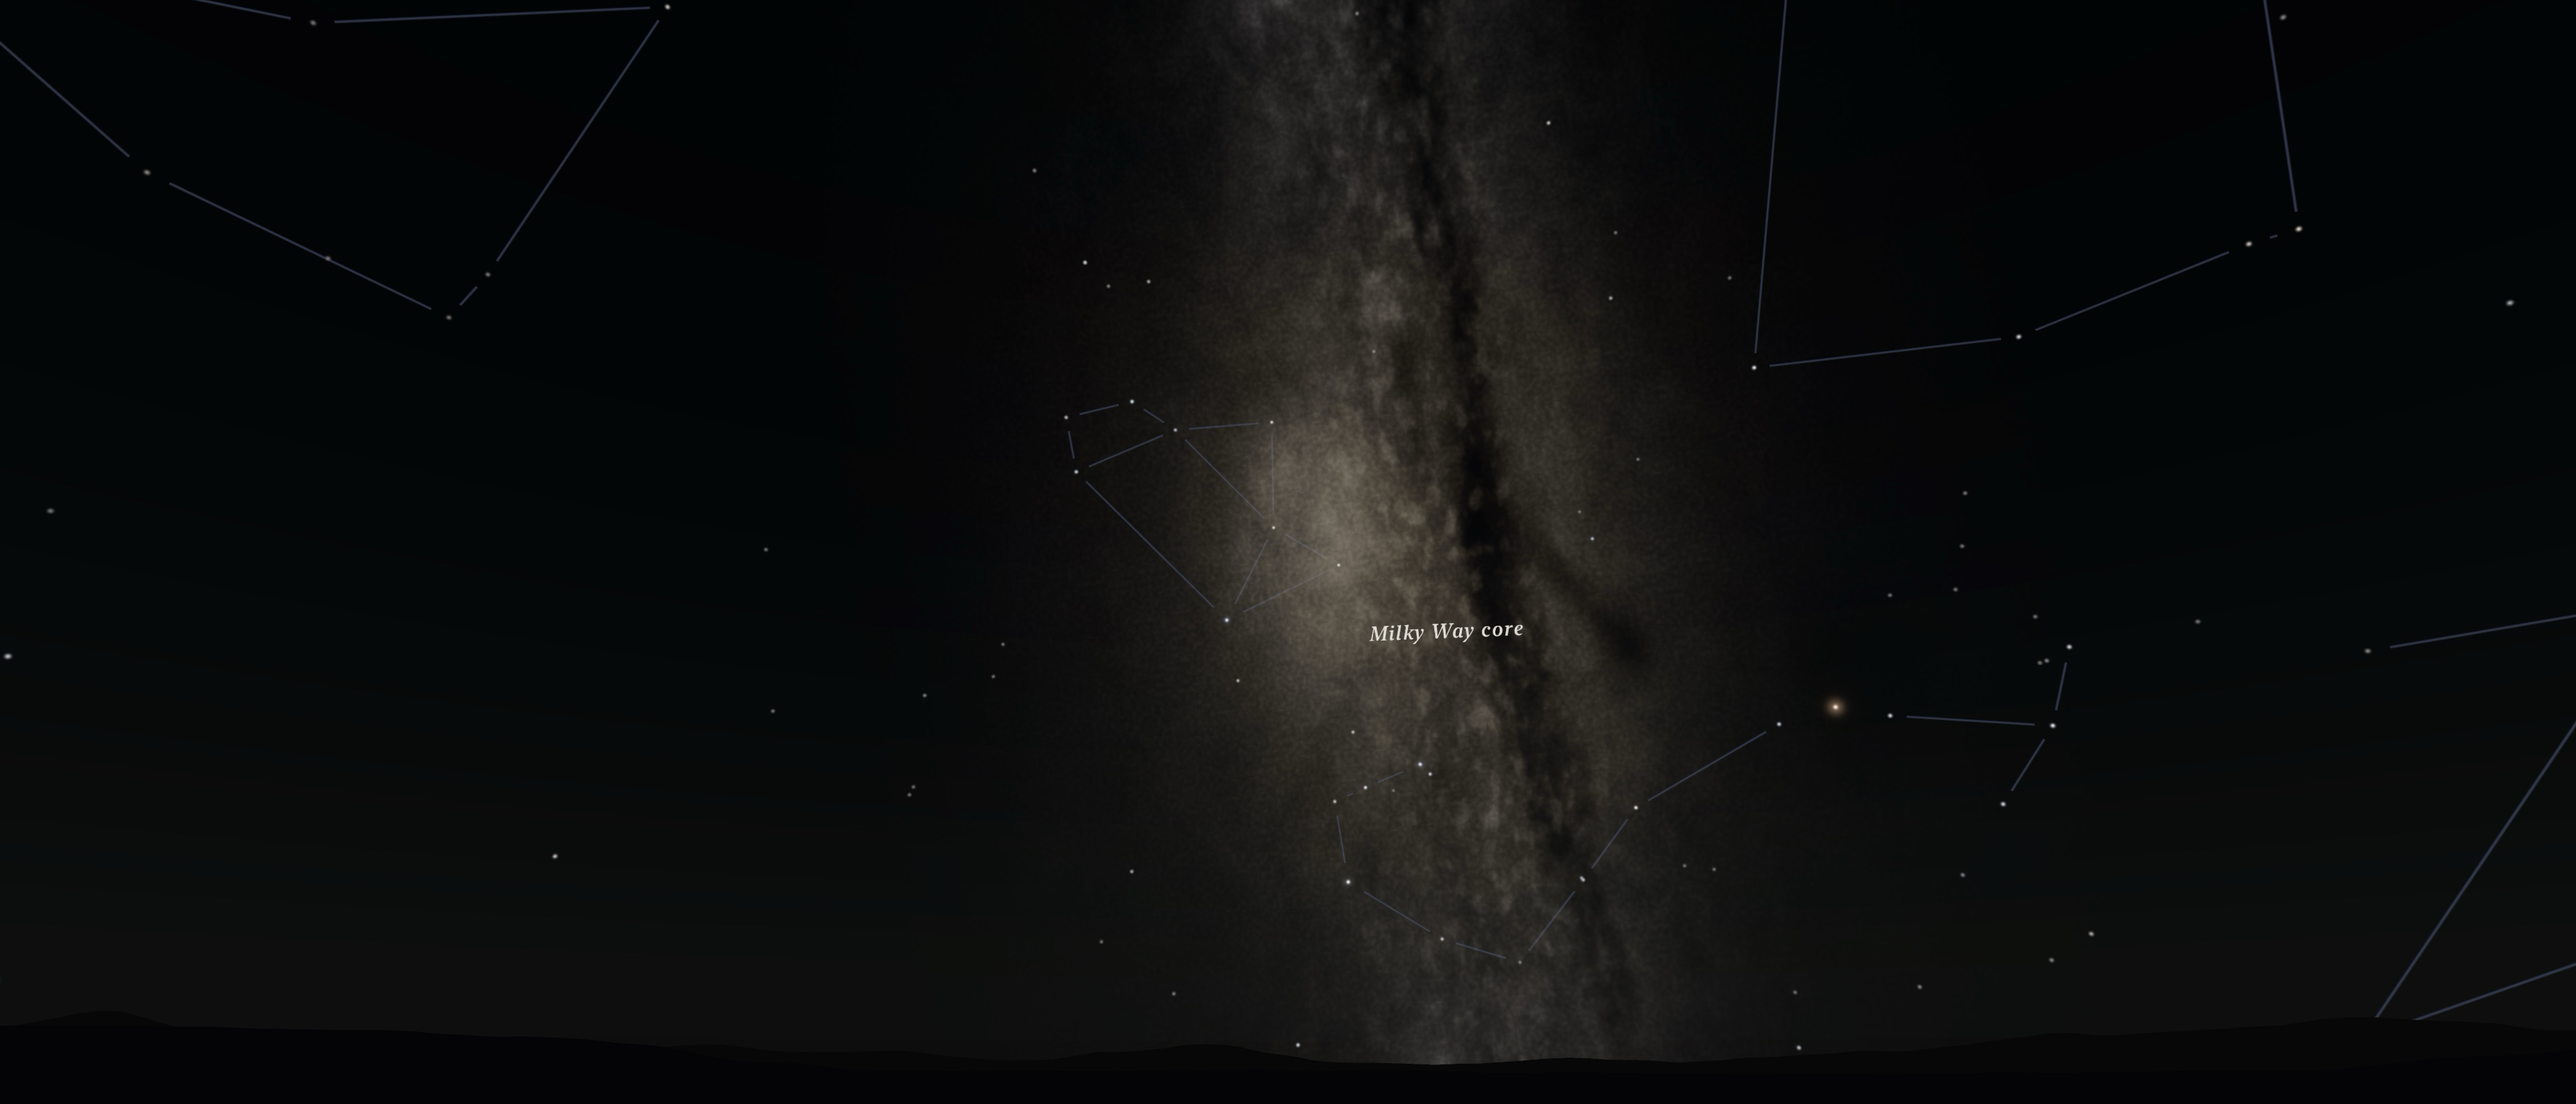
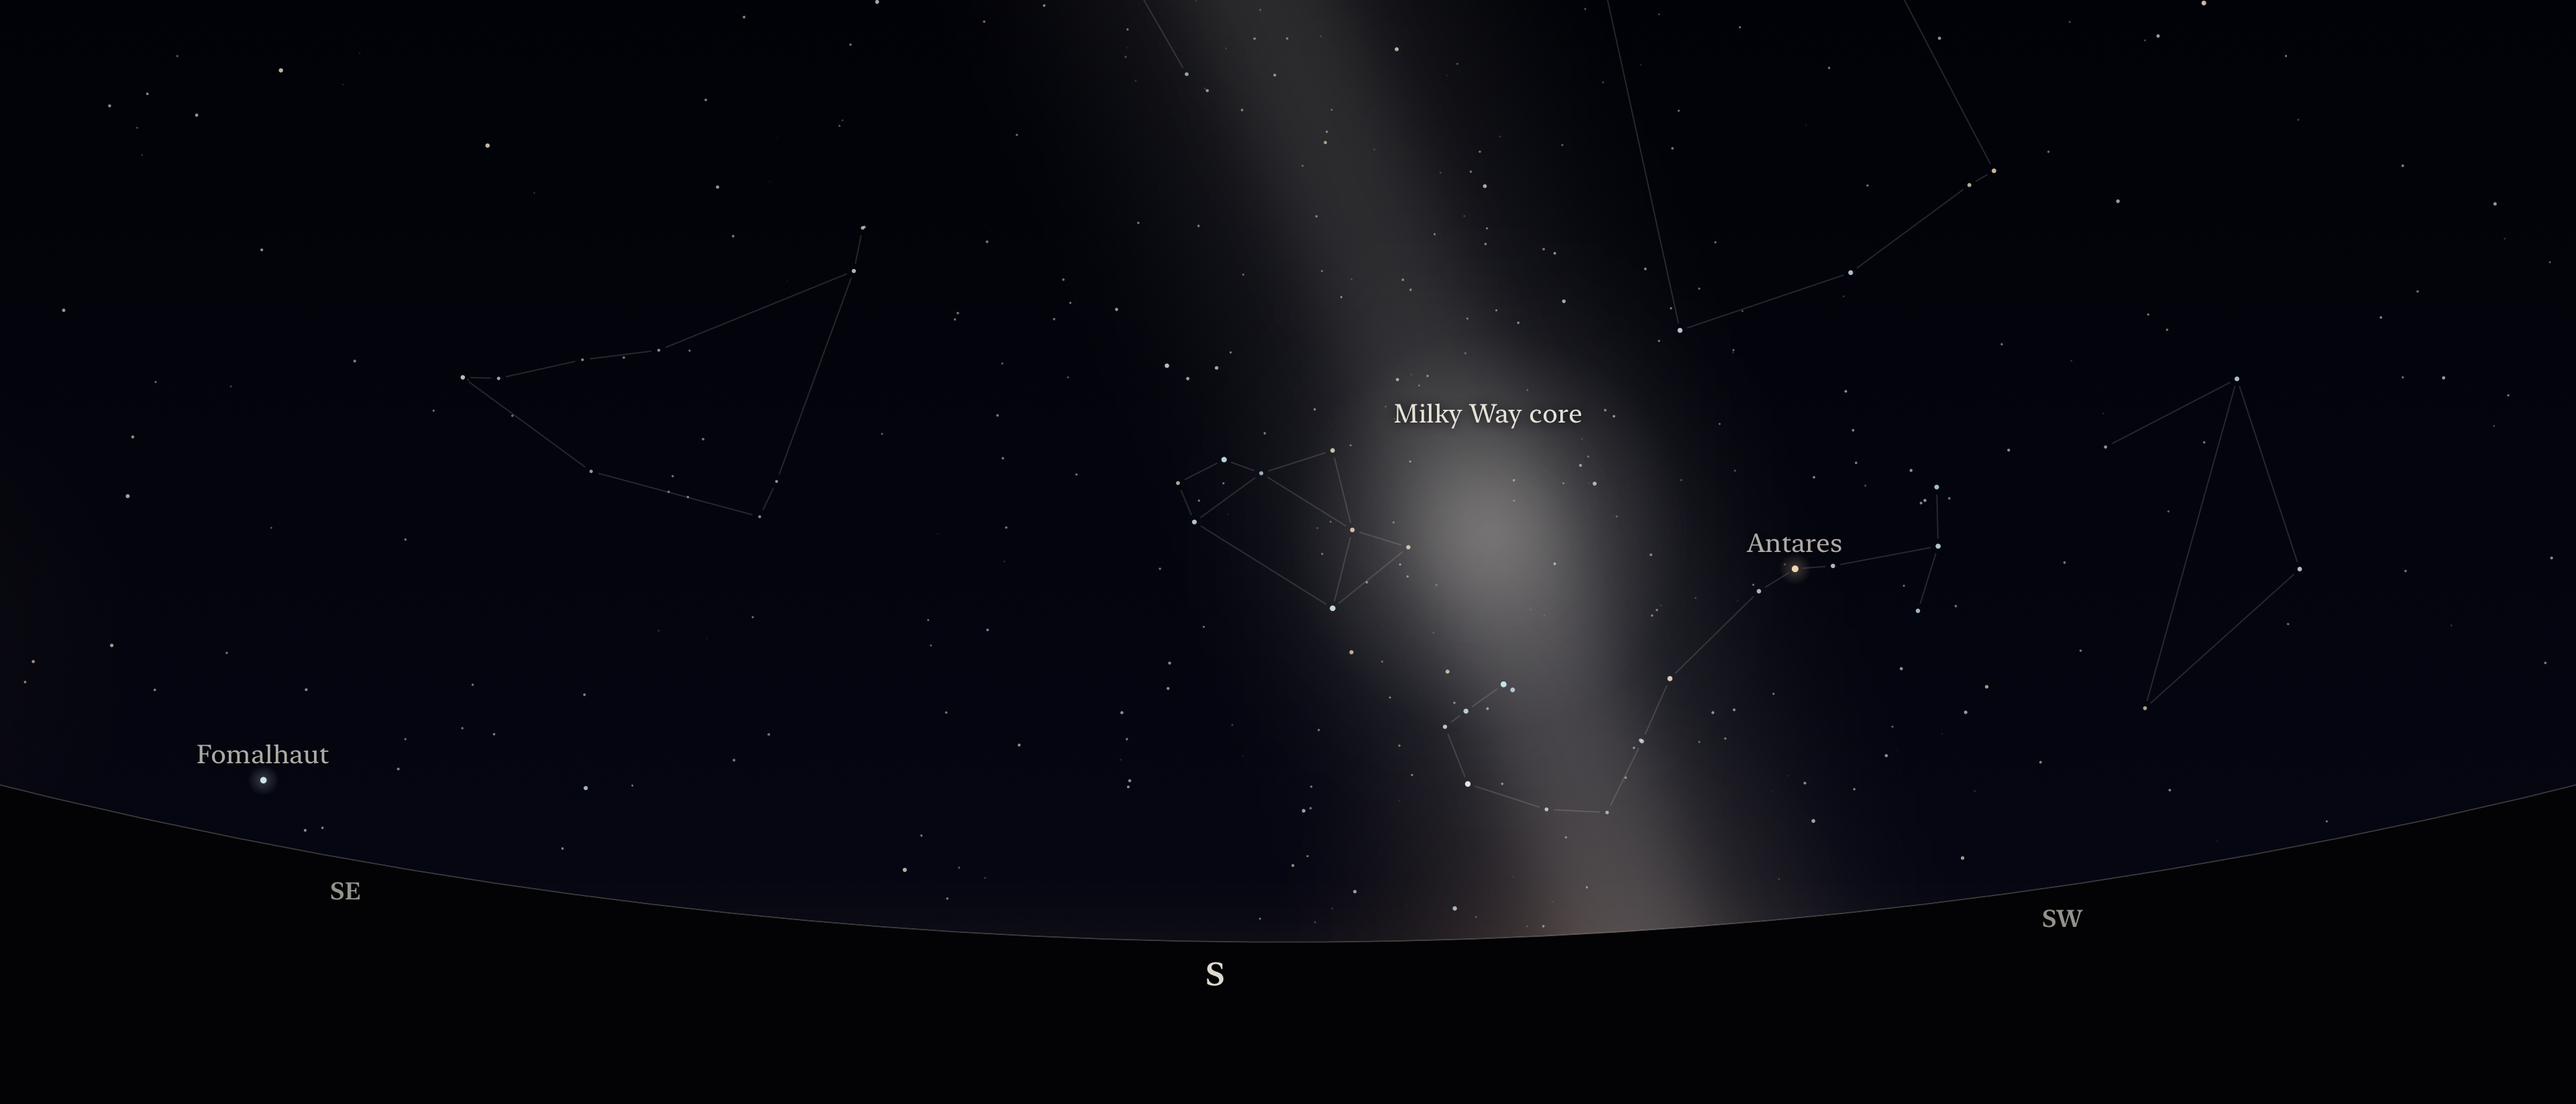
Product page header drawn by the iPhone app's own Tonight's sky renderer: DEBUG-only -nyx-export-header renders PanoramaCanvas at 3840x1646, Death Valley on Jul 3, 2027 at 12:55 AM facing south with the Milky Way core mid-frame

diff --git a/Nyx/App/DebugHeaderExport.swift b/Nyx/App/DebugHeaderExport.swift
@@ -1,0 +1,42 @@
+#if DEBUG
+import SwiftUI
+import ImageIO
+import UniformTypeIdentifiers
+
+/// `-nyx-export-header header.png` (with `-nyx-screen detail -nyx-park deva -nyx-date 2027-07-03`):
+/// draws the App Store product page header, 3840 × 1646 pixels with no alpha, from the same
+/// `PanoramaCanvas` the full-screen "Tonight's sky" uses, and writes it to the app's Documents
+/// folder under that name. The scene is the store set's: the night's default hour (the middle of
+/// true darkness, 12:55 AM), facing just west of south (184°) so the core sits mid-frame, the
+/// horizon low and the Milky Way rising from it. No header, controls or status bar. Tuning, for retakes: `-nyx-header-facing 184`,
+/// `-nyx-header-altitude 22`, `-nyx-header-span 1.1` (as `PanoramaOptions`), `-nyx-header-minutes N`
+/// (after the night's start), `-nyx-header-scale 3` (pixels per point: sets how large stars and
+/// names draw against the frame). Writes only a local file.
+@MainActor enum DebugHeaderExport {
+    static let pixels=CGSize(width:3840,height:1646)
+    static func runIfRequested(_ model:PlanModel) {
+        guard let name=DebugScenario.text("-nyx-export-header"), let park=model.home else { return }
+        let night=model.night(park)
+        let window=SkyAlmanac.nightWindow(night.sky)
+        let minutes=DebugScenario.number("-nyx-header-minutes") ?? TonightSkyView.defaultMinutes(night.sky)
+        let sky=HorizonSkies.shared.sky(park:park,night:night.id,at:window.start.addingTimeInterval(minutes*60))
+        let options=PanoramaOptions(facing:DebugScenario.number("-nyx-header-facing") ?? 184,
+                                    centreAltitude:DebugScenario.number("-nyx-header-altitude") ?? 22,
+                                    span:DebugScenario.number("-nyx-header-span") ?? 1.1,
+                                    bortle:Double(park.bortleEstimate))
+        let scale=DebugScenario.number("-nyx-header-scale") ?? 3
+        let points=CGSize(width:pixels.width/scale,height:pixels.height/scale)
+        let renderer=ImageRenderer(content:PanoramaCanvas(sky:sky,options:options).frame(width:points.width,height:points.height))
+        renderer.scale=scale
+        renderer.isOpaque=true
+        renderer.proposedSize=ProposedViewSize(points)
+        guard let image=renderer.cgImage, image.width>=Int(pixels.width), image.height>=Int(pixels.height),
+              let exact=image.cropping(to:CGRect(origin:.zero,size:pixels)),
+              let folder=FileManager.default.urls(for:.documentDirectory,in:.userDomainMask).first else { return }
+        let url=folder.appendingPathComponent((name as NSString).lastPathComponent)
+        guard let destination=CGImageDestinationCreateWithURL(url as CFURL,UTType.png.identifier as CFString,1,nil) else { return }
+        CGImageDestinationAddImage(destination,exact,nil)
+        CGImageDestinationFinalize(destination)
+    }
+}
+#endif

diff --git a/Nyx/App/RootView.swift b/Nyx/App/RootView.swift
@@ -119,6 +119,7 @@ struct RootView:View {
             if let screen=DebugScenario.screen { commands.tab=SceneCommands.tabIndex(screen) ?? 0 }
             #if DEBUG
             DebugFollowing.install(model)
+            DebugHeaderExport.runIfRequested(model)
             // `-nyx-journal-revisit`: leave the Journal after 5 s and come back a second later, so a
             // capture can show that the figures do not draw themselves again.
             if DebugScenario.isEnabled("journal-revisit") {

diff --git a/DECISIONS.md b/DECISIONS.md
@@ -1455,3 +1455,7 @@ Shell, compliance and Vision Pro clouds lanes (the park-page lane follows). Gate
 - **Public test counts brought up to date:** the case study (`docs/case-study.html`, the figure and its source comment) said 484 unit tests in 49 suites and the award entries 486 in 49; both now say 511 in 53, the count the unit suite reports on main after 1.3 (11) on iOS 27 and iOS 26.5 (2026-10-10). The landing page states no count. `SUBMISSION.md` keeps "504 tests" for build 11, which is what that build was tested with. No other website copy changed.
 - **Correction to the watch layout rule: each watch's default text size is told apart by screen height, not width** (`largestStandard(screenHeight:)`, 224 pt and taller is Extra Large). Read on the watchOS 27 simulators: Large on the 40 mm (162 × 197) and the 42 mm (187 × 223), Extra Large on the 44 mm SE (184 × 224), the 46 mm (208 × 248) and the Ultra (211 × 257). The width rule (200 pt) took the 44 mm's default Extra Large for a large size, so its default face scrolled with wrapped lines in English and Spanish; with height it is fixed again as designed, and Extra Extra Large still scrolls there. The 40 mm, 42 mm and Ultra choose as before (captured on the 44 mm and 42 mm in English and Spanish: Tonight, a Crown night, true darkness in red, a closure). The 41 mm and 45 mm were not checked: by height they take Large and Extra Large. 511 tests in 53 suites still (the default-size test now covers the five watches).
 - 2026-10-10 · The owner ran 1.3 (11) on their iPhone and reports that everything looks good; the owner decided to release 1.3 (11). Store copy brought up to build 11: the iOS page's version line and screenshot folders, a visionOS What's New for 1.3, and the Maps hand-off sentence confirmed for the review notes.
+
+## Product page header — 2026-10-10
+
+- The 1.3 product page header is drawn by the iPhone app's own Tonight's sky renderer (`PanoramaCanvas`, via the DEBUG-only `-nyx-export-header`: Death Valley, Jul 3, 2027, 12:55 AM, facing 184°) instead of cropped from the Vision Pro immersive sky: the header shows on the iOS product page, so it should be the sky an iPhone actually draws, matching the scene of the iPhone set's first frame (`01-tonights-sky.png`).

diff --git a/Store/1.3 v11/README.md b/Store/1.3 v11/README.md
@@ -60,4 +60,4 @@ Slot: **Apple Vision Pro, 3840 × 2160**. Captured natively on the Nyx Vision Pr
 
 ## Product page header (optional)
 
-`Header/header-3840x1646.png`: a 21:9 crop of the Vision Pro immersive sky over a park horizon (raw/vision/01-immersive-core.png, rows 250–1895), no alpha. Upload under Product Page Information → Header and Search Results → Header. The search results asset is left empty.
+`Header/header-3840x1646.png`: drawn at 3840 × 1646 with no alpha by the iPhone app's own Tonight's sky renderer (`PanoramaCanvas`, as in the full-screen "Tonight's sky" and the iPhone set's frame `Store/1.2 v10/iPhone/6.3-inch/01-tonights-sky.png`), through the DEBUG-only flag `-nyx-export-header`: `-nyx-screen detail -nyx-park deva -nyx-date 2027-07-03 -nyx-export-header header-3840x1646.png`, which writes the PNG to the app's Documents folder. The scene is the store set's: Death Valley on Sat, Jul 3, 2027 (a new-moon summer night) at 12:55 AM, facing just west of south (184°, 22° up, span 1.1), the horizon low with SE, S and SW under it, the Milky Way rising from the horizon with its core labelled mid-frame, Antares and Fomalhaut named, and the constellation figures as hairlines. No app chrome. Upload under Product Page Information → Header and Search Results → Header. The search results asset is left empty.
